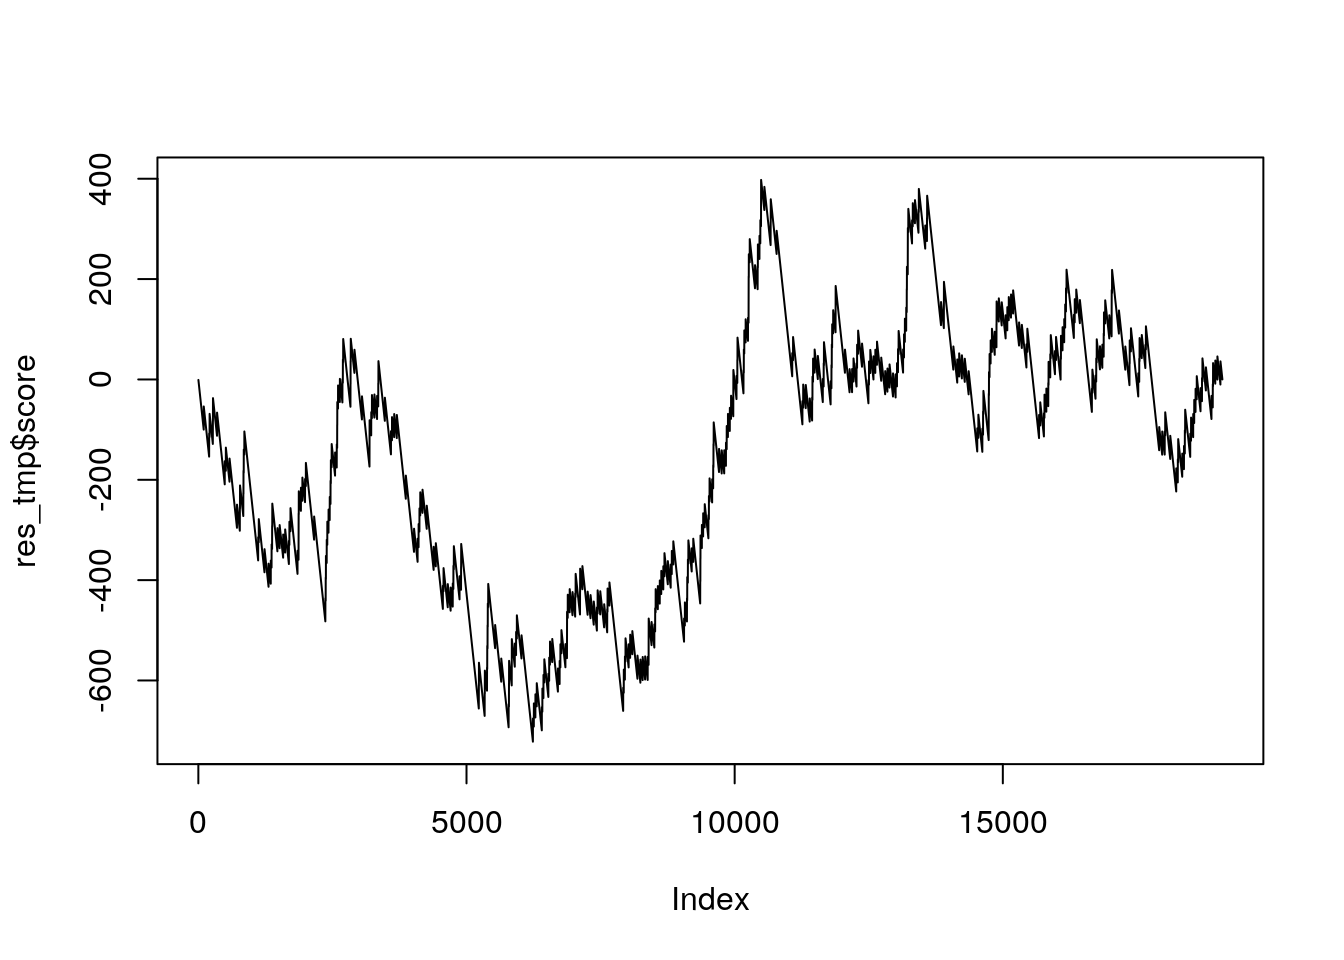
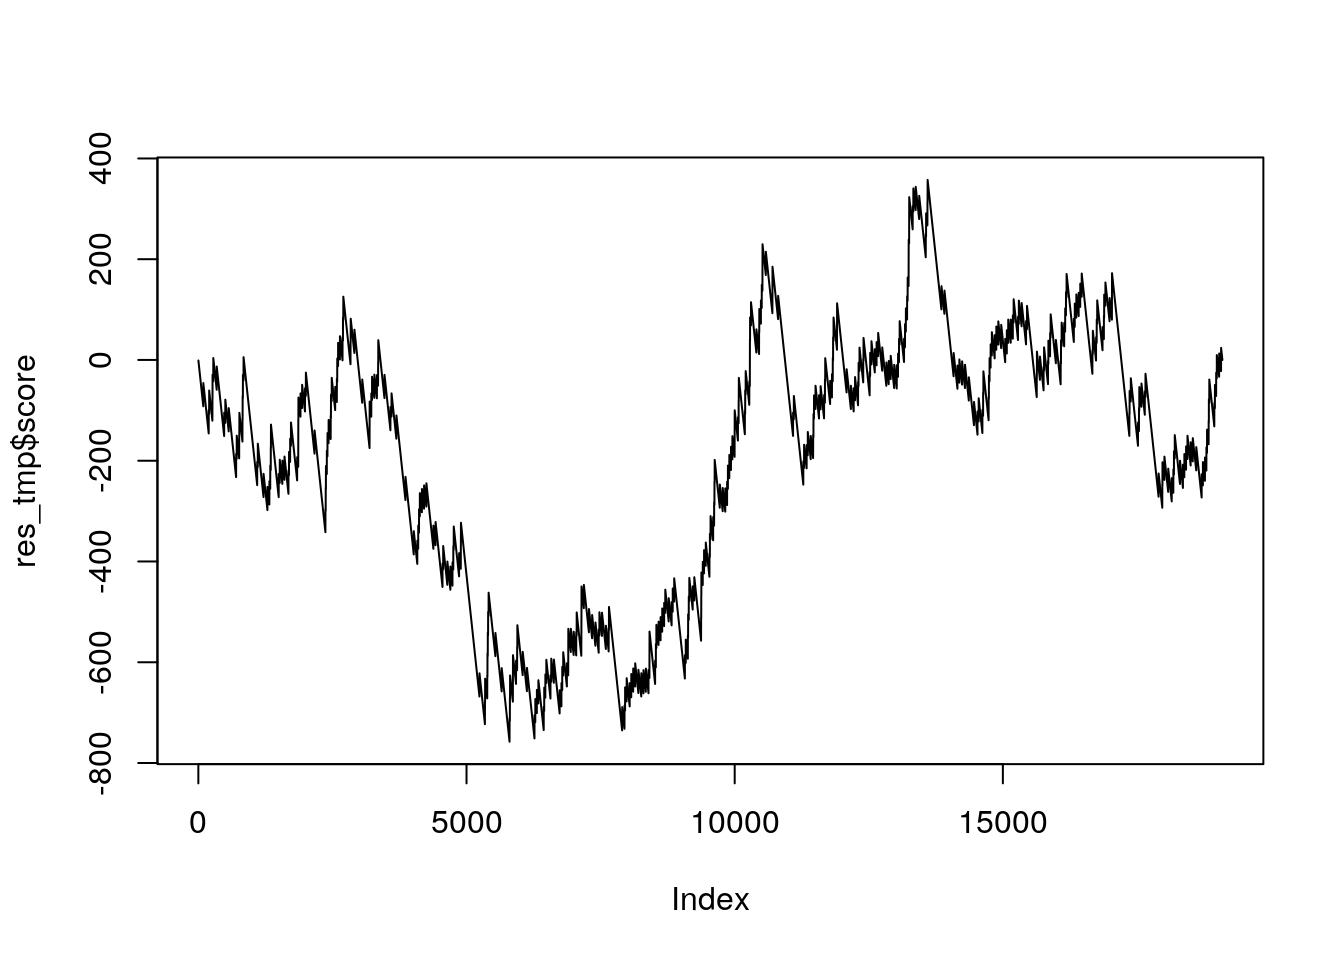
build cptac se

diff --git a/docs/sec-prot.html b/docs/sec-prot.html
@@ -129,6 +129,7 @@ code > span.in { color: #60a0b0; font-weight: bold; font-style: italic; } /* Inf
 <li class="toc"><a href="#qfeatures"> QFeatures</a></li>
 <li class="toc"><a href="#feature-aggregation"> Feature aggregation</a></li>
 <li class="toc"><a href="#subsetting-and-filtering"> Subsetting and filtering</a></li>
+<li class="toc"><a href="#the-cptac-data"> The CPTAC data</a></li>
 </ul>
 <a href="sec-ccl.html"><span class="toc-section-number">9</span> Conclusions</a>
 <a href="sec-anx.html"><span class="toc-section-number">10</span> Annex</a>
@@ -429,6 +430,81 @@ feat1</code></pre></div>
 </div>
 </div>
 <p>You can refer the the <a href="https://rformassspectrometry.github.io/QFeatures/articles/QFeatures.html"><em>Quantitative features for mass spectrometry data</em></a> vignette and the <code>QFeature</code> <a href="https://rformassspectrometry.github.io/QFeatures/reference/QFeatures-class.html">manual page</a> for more details about the class.</p>
+</div>
+<div id="the-cptac-data" class="section level2">
+<h2>
+<span class="header-section-number">8.5</span> The CPTAC data</h2>
+<p>We are going to use a subset of the CPTAC study 6 containing conditions A and B <span class="citation">(Paulovich et al. <label for="tufte-mn-18" class="margin-toggle">⊕</label><input type="checkbox" id="tufte-mn-18" class="margin-toggle">2010<span class="marginnote">Paulovich, Amanda G, Dean Billheimer, Amy-Joan L Ham, Lorenzo Vega-Montoto, Paul A Rudnick, David L Tabb, Pei Wang, et al. 2010. “Interlaboratory Study Characterizing a Yeast Performance Standard for Benchmarking LC-MS Platform Performance.” <em>Mol. Cell. Proteomics</em> 9 (2): 242–54.</span>)</span>. The peptide-level data, as processed by MaxQuant <span class="citation">(Cox and Mann <label for="tufte-mn-19" class="margin-toggle">⊕</label><input type="checkbox" id="tufte-mn-19" class="margin-toggle">2008<span class="marginnote">Cox, J, and M Mann. 2008. “MaxQuant Enables High Peptide Identification Rates, Individualized P.p.b.-range Mass Accuracies and Proteome-Wide Protein Quantification.” <em>Nat Biotechnol</em> 26 (12): 1367–72. doi:<a href="https://doi.org/10.1038/nbt.1511">10.1038/nbt.1511</a>.</span>)</span> is available in the <code>msdata</code> package:</p>
+<div class="sourceCode"><pre class="sourceCode r"><code class="sourceCode r"><span class="kw">basename</span>(f &lt;-<span class="st"> </span>msdata<span class="op">::</span><span class="kw">quant</span>(<span class="dt">pattern =</span> <span class="st">"cptac"</span>, <span class="dt">full.names =</span> <span class="ot">TRUE</span>))</code></pre></div>
+<pre><code>## [1] "cptac_a_b_peptides.txt"</code></pre>
+<p>From the names of the columns, we see that the quantitative columns, starting with <code>"Intensity."</code> (note the dot!) are at positions 56 to 61.</p>
+<div class="sourceCode"><pre class="sourceCode r"><code class="sourceCode r"><span class="kw">names</span>(<span class="kw">read.delim</span>(f))</code></pre></div>
+<pre><code>##  [1] "Sequence"                 "N.term.cleavage.window"  
+##  [3] "C.term.cleavage.window"   "Amino.acid.before"       
+##  [5] "First.amino.acid"         "Second.amino.acid"       
+##  [7] "Second.last.amino.acid"   "Last.amino.acid"         
+##  [9] "Amino.acid.after"         "A.Count"                 
+## [11] "R.Count"                  "N.Count"                 
+## [13] "D.Count"                  "C.Count"                 
+## [15] "Q.Count"                  "E.Count"                 
+## [17] "G.Count"                  "H.Count"                 
+## [19] "I.Count"                  "L.Count"                 
+## [21] "K.Count"                  "M.Count"                 
+## [23] "F.Count"                  "P.Count"                 
+## [25] "S.Count"                  "T.Count"                 
+## [27] "W.Count"                  "Y.Count"                 
+## [29] "V.Count"                  "U.Count"                 
+## [31] "Length"                   "Missed.cleavages"        
+## [33] "Mass"                     "Proteins"                
+## [35] "Leading.razor.protein"    "Start.position"          
+## [37] "End.position"             "Unique..Groups."         
+## [39] "Unique..Proteins."        "Charges"                 
+## [41] "PEP"                      "Score"                   
+## [43] "Identification.type.6A_7" "Identification.type.6A_8"
+## [45] "Identification.type.6A_9" "Identification.type.6B_7"
+## [47] "Identification.type.6B_8" "Identification.type.6B_9"
+## [49] "Experiment.6A_7"          "Experiment.6A_8"         
+## [51] "Experiment.6A_9"          "Experiment.6B_7"         
+## [53] "Experiment.6B_8"          "Experiment.6B_9"         
+## [55] "Intensity"                "Intensity.6A_7"          
+## [57] "Intensity.6A_8"           "Intensity.6A_9"          
+## [59] "Intensity.6B_7"           "Intensity.6B_8"          
+## [61] "Intensity.6B_9"           "Reverse"                 
+## [63] "Potential.contaminant"    "id"                      
+## [65] "Protein.group.IDs"        "Mod..peptide.IDs"        
+## [67] "Evidence.IDs"             "MS.MS.IDs"               
+## [69] "Best.MS.MS"               "Oxidation..M..site.IDs"  
+## [71] "MS.MS.Count"</code></pre>
+<div class="sourceCode"><pre class="sourceCode r"><code class="sourceCode r">(i &lt;-<span class="st"> </span><span class="kw">grep</span>(<span class="st">"Intensity</span><span class="ch">\\</span><span class="st">."</span>, <span class="kw">names</span>(<span class="kw">read.delim</span>(f))))</code></pre></div>
+<pre><code>## [1] 56 57 58 59 60 61</code></pre>
+<p>We now read these data using the <code>readSummarizedExperiment</code> function. This peptide-level expression data will be imported into R as an instance of class <code>SummarizedExperiment</code>. We also use the <code>fnames</code> argument to set the row-names of the <code>peptides</code> assay to the peptide sequences and specify that the file is a tab-separated table.</p>
+<div class="sourceCode"><pre class="sourceCode r"><code class="sourceCode r">cptac_se &lt;-<span class="st"> </span><span class="kw">readSummarizedExperiment</span>(f, <span class="dt">ecol =</span> i, <span class="dt">fnames =</span> <span class="st">"Sequence"</span>, <span class="dt">sep =</span> <span class="st">"</span><span class="ch">\t</span><span class="st">"</span>)
+cptac_se</code></pre></div>
+<pre><code>## class: SummarizedExperiment 
+## dim: 11466 6 
+## metadata(0):
+## assays(1): ''
+## rownames(11466): AAAAGAGGAGDSGDAVTK AAAALAGGK ... YYTVFDRDNNR
+##   YYTVFDRDNNRVGFAEAAR
+## rowData names(65): Sequence N.term.cleavage.window ...
+##   Oxidation..M..site.IDs MS.MS.Count
+## colnames(6): Intensity.6A_7 Intensity.6A_8 ... Intensity.6B_8
+##   Intensity.6B_9
+## colData names(0):</code></pre>
+<p>Before proceeding, we are going to clean up the sample names and annotate the experiment:</p>
+<div class="sourceCode"><pre class="sourceCode r"><code class="sourceCode r"><span class="kw">colnames</span>(cptac_se) &lt;-<span class="st"> </span><span class="kw">sub</span>(<span class="st">"I.+</span><span class="ch">\\</span><span class="st">."</span>, <span class="st">""</span>, <span class="kw">colnames</span>(cptac_se))
+cptac_se<span class="op">$</span>group &lt;-<span class="st"> </span><span class="kw">sub</span>(<span class="st">"_[7-9]"</span>, <span class="st">""</span>, <span class="kw">colnames</span>(cptac_se))
+cptac_se<span class="op">$</span>id &lt;-<span class="st"> </span><span class="kw">sub</span>(<span class="st">"^.+_"</span>, <span class="st">""</span>, <span class="kw">colnames</span>(cptac_se))
+<span class="kw">colData</span>(cptac_se)</code></pre></div>
+<pre><code>## DataFrame with 6 rows and 2 columns
+##            group          id
+##      &lt;character&gt; &lt;character&gt;
+## 6A_7          6A           7
+## 6A_8          6A           8
+## 6A_9          6A           9
+## 6B_7          6B           7
+## 6B_8          6B           8
+## 6B_9          6B           9</code></pre>
 
 </div>
 </div></body></html>

diff --git a/docs/sec-hts.html b/docs/sec-hts.html
@@ -410,7 +410,7 @@ SampleName.bam              # bam file</code></pre>
 <p>Here is an example of featurecounts output file. The last column gives the raw counts of each gene in that sample.</p>
 <div class="sourceCode"><pre class="sourceCode r"><code class="sourceCode r">counts_result &lt;-<span class="st"> </span><span class="kw">read_tsv</span>(<span class="dt">file =</span> <span class="st">"wsbim2122_data/count_data/sample1_counts.tsv.gz"</span>)</code></pre></div>
 <pre><code>## 
-## ── Column specification ────────────────────────────────────────────────────────
+## ── Column specification ───────────────────────────────────────────────────────────────────────────────────────────────────────────────────────────────────────────────────────────────
 ## cols(
 ##   Geneid = col_character(),
 ##   Chr = col_character(),
@@ -421,8 +421,8 @@ SampleName.bam              # bam file</code></pre>
 ##   `../processed_data/bam/sample1.bam` = col_double()
 ## )</code></pre>
 <div class="sourceCode"><pre class="sourceCode r"><code class="sourceCode r"><span class="kw">datatable</span>(<span class="kw">head</span>(counts_result))</code></pre></div>
-<div id="htmlwidget-9ee02a3bc793e9052261" style="width:100%;height:auto;" class="datatables html-widget"></div>
-<script type="application/json" data-for="htmlwidget-9ee02a3bc793e9052261">{"x":{"filter":"none","data":[["1","2","3","4","5","6"],["ENSG00000223972","ENSG00000227232","ENSG00000278267","ENSG00000243485","ENSG00000284332","ENSG00000237613"],["1;1;1;1;1;1;1;1;1","1;1;1;1;1;1;1;1;1;1;1","1","1;1;1;1;1","1","1;1;1;1;1"],["11869;12010;12179;12613;12613;12975;13221;13221;13453","14404;15005;15796;16607;16858;17233;17606;17915;18268;24738;29534","17369","29554;30267;30564;30976;30976","30366","34554;35245;35277;35721;35721"],["12227;12057;12227;12721;12697;13052;13374;14409;13670","14501;15038;15947;16765;17055;17368;17742;18061;18366;24891;29570","17436","30039;30667;30667;31109;31097","30503","35174;35481;35481;36073;36081"],["+;+;+;+;+;+;+;+;+","-;-;-;-;-;-;-;-;-;-;-","-","+;+;+;+;+","+","-;-;-;-;-"],[1735,1351,68,1021,138,1219],[0,14,8,0,0,0]],"container":"<table class=\"display\">\n  <thead>\n    <tr>\n      <th> <\/th>\n      <th>Geneid<\/th>\n      <th>Chr<\/th>\n      <th>Start<\/th>\n      <th>End<\/th>\n      <th>Strand<\/th>\n      <th>Length<\/th>\n      <th>../processed_data/bam/sample1.bam<\/th>\n    <\/tr>\n  <\/thead>\n<\/table>","options":{"columnDefs":[{"className":"dt-right","targets":[6,7]},{"orderable":false,"targets":0}],"order":[],"autoWidth":false,"orderClasses":false}},"evals":[],"jsHooks":[]}</script><div class="question">
+<div id="htmlwidget-ac4c11229dcb00b24b22" style="width:100%;height:auto;" class="datatables html-widget"></div>
+<script type="application/json" data-for="htmlwidget-ac4c11229dcb00b24b22">{"x":{"filter":"none","data":[["1","2","3","4","5","6"],["ENSG00000223972","ENSG00000227232","ENSG00000278267","ENSG00000243485","ENSG00000284332","ENSG00000237613"],["1;1;1;1;1;1;1;1;1","1;1;1;1;1;1;1;1;1;1;1","1","1;1;1;1;1","1","1;1;1;1;1"],["11869;12010;12179;12613;12613;12975;13221;13221;13453","14404;15005;15796;16607;16858;17233;17606;17915;18268;24738;29534","17369","29554;30267;30564;30976;30976","30366","34554;35245;35277;35721;35721"],["12227;12057;12227;12721;12697;13052;13374;14409;13670","14501;15038;15947;16765;17055;17368;17742;18061;18366;24891;29570","17436","30039;30667;30667;31109;31097","30503","35174;35481;35481;36073;36081"],["+;+;+;+;+;+;+;+;+","-;-;-;-;-;-;-;-;-;-;-","-","+;+;+;+;+","+","-;-;-;-;-"],[1735,1351,68,1021,138,1219],[0,14,8,0,0,0]],"container":"<table class=\"display\">\n  <thead>\n    <tr>\n      <th> <\/th>\n      <th>Geneid<\/th>\n      <th>Chr<\/th>\n      <th>Start<\/th>\n      <th>End<\/th>\n      <th>Strand<\/th>\n      <th>Length<\/th>\n      <th>../processed_data/bam/sample1.bam<\/th>\n    <\/tr>\n  <\/thead>\n<\/table>","options":{"columnDefs":[{"className":"dt-right","targets":[6,7]},{"orderable":false,"targets":0}],"order":[],"autoWidth":false,"orderClasses":false}},"evals":[],"jsHooks":[]}</script><div class="question">
 <p class="question-begin">
 ► Question
 </p>

diff --git a/docs/sec-gsea.html b/docs/sec-gsea.html
@@ -503,8 +503,8 @@ dds_tmp<span class="op">$</span>Condition &lt;-<span class="st"> </span>dds_tmp<
 <pre><code>## DataFrame with 6 rows and 4 columns
 ##                Cell        Type Condition sizeFactor
 ##         &lt;character&gt; &lt;character&gt;  &lt;factor&gt;  &lt;numeric&gt;
-## sample1       Cell1  Epithelial      mock   0.726883
-## sample2       Cell1  Epithelial      KD     1.308664
+## sample1       Cell1  Epithelial      KD     0.726883
+## sample2       Cell1  Epithelial      mock   1.308664
 ## sample3       Cell1  Epithelial      mock   1.077368
 ## sample4       Cell1  Epithelial      mock   0.966025
 ## sample5       Cell1  Epithelial      KD     1.042111
@@ -525,22 +525,22 @@ res_tmp &lt;-<span class="st"> </span>res_tmp <span class="op">%&gt;%</span>
 <span class="st">    </span><span class="kw">mutate</span>(<span class="dt">score =</span> <span class="kw">cumsum</span>(score))
 
 res_tmp</code></pre></div>
-<pre><code>## # A tibble: 19,094 x 5
+<pre><code>## # A tibble: 19,093 x 5
 ##    ENSEMBL          ENTREZID  padj inGO  score
 ##    &lt;chr&gt;               &lt;int&gt; &lt;dbl&gt; &lt;lgl&gt; &lt;dbl&gt;
-##  1 ENSG00000223972     84771 0.997 FALSE    -1
-##  2 ENSG00000223972    727856 0.997 FALSE    -2
-##  3 ENSG00000223972 100287102 0.997 FALSE    -3
-##  4 ENSG00000223972 100287596 0.997 FALSE    -4
-##  5 ENSG00000223972 102725121 0.997 FALSE    -5
-##  6 ENSG00000227232    653635 0.997 FALSE    -6
-##  7 ENSG00000278267 102466751 0.997 FALSE    -7
-##  8 ENSG00000279457 102723897 0.997 FALSE    -8
-##  9 ENSG00000230021 101928626 0.997 FALSE    -9
-## 10 ENSG00000237491 105378580 0.997 FALSE   -10
-## # … with 19,084 more rows</code></pre>
+##  1 ENSG00000223972     84771 0.999 FALSE    -1
+##  2 ENSG00000223972    727856 0.999 FALSE    -2
+##  3 ENSG00000223972 100287102 0.999 FALSE    -3
+##  4 ENSG00000223972 100287596 0.999 FALSE    -4
+##  5 ENSG00000223972 102725121 0.999 FALSE    -5
+##  6 ENSG00000227232    653635 0.999 FALSE    -6
+##  7 ENSG00000278267 102466751 0.999 FALSE    -7
+##  8 ENSG00000279457 102723897 0.999 FALSE    -8
+##  9 ENSG00000230021 101928626 0.999 FALSE    -9
+## 10 ENSG00000237491 105378580 0.999 FALSE   -10
+## # … with 19,083 more rows</code></pre>
 <div class="sourceCode"><pre class="sourceCode r"><code class="sourceCode r"><span class="kw">max</span>(res_tmp<span class="op">$</span>score)</code></pre></div>
-<pre><code>## [1] 397.6519</code></pre>
+<pre><code>## [1] 357.3901</code></pre>
 <div class="sourceCode"><pre class="sourceCode r"><code class="sourceCode r"><span class="kw">plot</span>(res_tmp<span class="op">$</span>score, <span class="dt">type =</span> <span class="st">"l"</span>)</code></pre></div>
 <p><img src="WSBIM2122_files/figure-html/unnamed-chunk-119-1.png" width="672"></p>
 <p>This approach is very time consuming, given that the statistical tests for all the genes need to be recomputer at each permutation. In addition, for experiments with limited number of samples, the number of permutations would be limited.</p>

diff --git a/docs/sec-linmod.html b/docs/sec-linmod.html
@@ -475,8 +475,8 @@ coefs_id</code></pre></div>
 <h2>
 <span class="header-section-number">3.5</span> Interactions between variables</h2>
 <p>Consider the following design: two genotypes of plants, wild type and a mutant that shows some resistance to drought, that are grown, collected and analysed by RNA sequencing under normal, humid and dry conditions. The researchers that set up this experiment expect that the two genotypes will produce, for some key genes, opposite responses in the extreme conditions: that the expression of some genes will increase in the mutant under dry conditions while it will decrease under humid conditions.</p>
-<div id="htmlwidget-10933a4e08935a60180c" style="width:100%;height:auto;" class="datatables html-widget"></div>
-<script type="application/json" data-for="htmlwidget-10933a4e08935a60180c">{"x":{"filter":"none","data":[[1,2,3,4,5,6,7,8,9,10,11,12],["WT","WT","WT","WT","WT","WT","MT","MT","MT","MT","MT","MT"],["normal","dry","humid","normal","dry","humid","normal","dry","humid","normal","dry","humid"]],"container":"<table class=\"cell-border stripe\">\n  <thead>\n    <tr>\n      <th>sample<\/th>\n      <th>genotype<\/th>\n      <th>condition<\/th>\n    <\/tr>\n  <\/thead>\n<\/table>","options":{"pageLength":12,"autoWidth":true,"columnDefs":[{"className":"dt-right","targets":0}],"order":[],"orderClasses":false,"lengthMenu":[10,12,25,50,100]}},"evals":[],"jsHooks":[]}</script><p>Such situation require a new model formula syntax, that</p>
+<div id="htmlwidget-ae1fa49277a3f7da4e13" style="width:100%;height:auto;" class="datatables html-widget"></div>
+<script type="application/json" data-for="htmlwidget-ae1fa49277a3f7da4e13">{"x":{"filter":"none","data":[[1,2,3,4,5,6,7,8,9,10,11,12],["WT","WT","WT","WT","WT","WT","MT","MT","MT","MT","MT","MT"],["normal","dry","humid","normal","dry","humid","normal","dry","humid","normal","dry","humid"]],"container":"<table class=\"cell-border stripe\">\n  <thead>\n    <tr>\n      <th>sample<\/th>\n      <th>genotype<\/th>\n      <th>condition<\/th>\n    <\/tr>\n  <\/thead>\n<\/table>","options":{"pageLength":12,"autoWidth":true,"columnDefs":[{"className":"dt-right","targets":0}],"order":[],"orderClasses":false,"lengthMenu":[10,12,25,50,100]}},"evals":[],"jsHooks":[]}</script><p>Such situation require a new model formula syntax, that</p>
 <div class="sourceCode"><pre class="sourceCode r"><code class="sourceCode r"><span class="op">~</span><span class="st"> </span>genotype <span class="op">*</span><span class="st"> </span>condition</code></pre></div>
 <p>which is equivalent to</p>
 <div class="sourceCode"><pre class="sourceCode r"><code class="sourceCode r"><span class="op">~</span><span class="st"> </span>genotype <span class="op">+</span><span class="st"> </span>condition <span class="op">+</span><span class="st"> </span>genotype <span class="op">*</span><span class="st"> </span>condition</code></pre></div>
